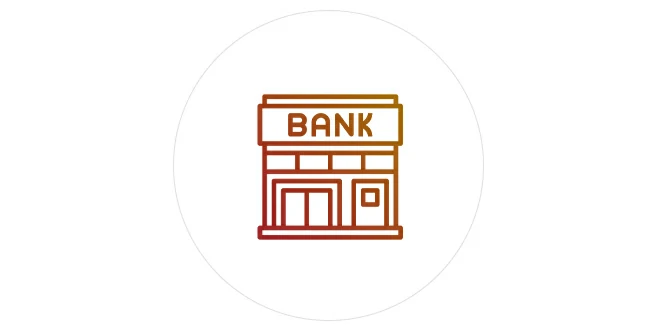
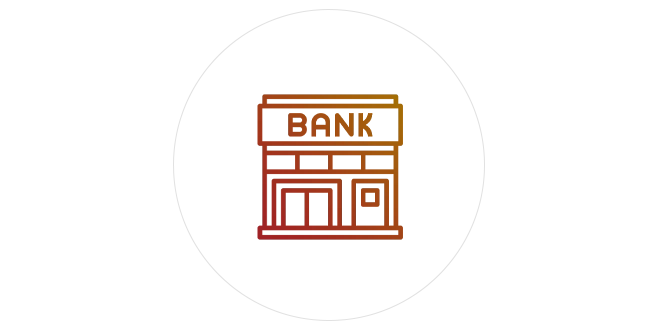
mk

diff --git a/css/about-aya/fdi.css b/css/about-aya/fdi.css
@@ -36,7 +36,7 @@
 	background-color: #A5000B !important;
 	color: #fff !important;
 	float: right;
-	border: 1px solid #A5000B;
+	border: 1px solid #A5000B !important;
 }
 .enquiry_btn:hover {
 	background-color: #fff !important;

diff --git a/css/header.css b/css/header.css
@@ -316,7 +316,7 @@
 }
 
 .alert-dropdown {
-	top: 40% !important;
+	top: 34% !important;
 }
 .alert-769-1179-dropdown {
 	top: 43% !important;

diff --git a/resources/views/layouts/alert-message.blade.php b/resources/views/layouts/alert-message.blade.php
@@ -1,20 +1,19 @@
-<div class="alert_div py-3" style="background-color: #434343;min-height: 160px;">
+<div class="alert_div py-3" style="background-color: #434343;">
 	<div class="container-fluid">
 		<div class="row">
 			<div class="col-md-11 alert_txt_div">
 				<p class="f-white fw-light alert-msg mb-0">Received a text requesting your account PIN (or) OTP?</p>
 				<p class="f-white fw-light alert-msg">Scammers may impersonate AYA Bank to target you via text message or social media or e-mail. We will never contact you to ask for your <b>account number, name, address, PIN or OTP</b>. If in doubt, don't respond - call us <a class="f-white text-decoration-underline" href="tel:+9512317777">(+95) 1 231 7777</a> (or)  e-mail us <a class="f-white text-decoration-underline" href="mailto:info@ayabank.com">info@ayabank.com</a>.</p>
-				<!-- <div class="alert_eng" >
-					<p class="f-white fw-light alert-msg mb-10">Lately, there has been a concerning trend of malicious apps infiltrating users' mobile phones through advertisements on popular Social Networks such as Facebook. These ads often promote seemingly legitimate services, but they contain hidden malware.</p>
-					<p class="f-white fw-light alert-msg mb-10">If you happen to download and use these deceptive apps, external parties gain control over your phone, enabling them to steal sensitive information like your mobile pay password and OTP (One-Time Password). With this access, they can transfer your money without your knowledge and even borrow money from your social network connections.</p>
-					<p class="f-white fw-light alert-msg mb-0">For your safety and security, it is crucial to avoid installing unreliable apps and exercise caution while using your mobile phone. Stay vigilant and protect your data from potential threats.</p>
-				</div>
+			 <!--   <div class="alert_eng">-->
+				<!--	<p class="f-white fw-light alert-msg mb-10">Lately, there has been a concerning trend of malicious apps infiltrating users' mobile phones through advertisements on popular Social Networks such as Facebook. These ads often promote seemingly legitimate services, but they contain hidden malware.</p>-->
+				<!--	<p class="f-white fw-light alert-msg mb-10">If you happen to download and use these deceptive apps, external parties gain control over your phone, enabling them to steal sensitive information like your mobile pay password and OTP (One-Time Password). With this access, they can transfer your money without your knowledge and even borrow money from your social network connections.</p>-->
+				<!--	<p class="f-white fw-light alert-msg mb-0">For your safety and security, it is crucial to avoid installing unreliable apps and exercise caution while using your mobile phone. Stay vigilant and protect your data from potential threats.</p>-->
+				<!--</div>-->
 
-				<div class="alert_mm" style="display: none;">
-					<p class="f-white fw-light alert-msg mb-0">&nbsp;</p>
-					<p class="f-white fw-light alert-msg mb-10" style="padding-right: 20px;">လတ်တလောတွင် Facebook ကဲ့သို့ Social Network များ၏ ကြော်ငြာ မှတဆင့် မိမိ၏ဖုန်းထဲကို apps သွင်းခိုင်းပြီး malware တွေပါထည့်နေခြင်းကို ကြားသိရပါသည်။ ထို apps ဝင်ရောက်ပါက မိမိ၏ ဖုန်းအားဝင်ရောက်ထိန်းချုပ်ပြီး မိမိ၏ ဘဏ်အကောင့် မိုဘိုင်းပေး password နှင့် OTP များအားခိုးယူပြီး မိမိမသိပဲငွေလွှဲ ယူဆောင်နိုင်ပါသည်။ ထို့အပြင်မိမိ၏ social account မှလည်း မိမိ၏မိတ်ဆွေများထံသို့ ငွေချေးမှုများပြုလုပ်နိုင်ပါသည်။</p>
-					<p class="f-white fw-light alert-msg mb-10">သို့ပါသဖြင့် မိမိ၏ ဖုန်းအား မိမိမသိသော၊ စိတ်မချရသော apps များအား ထည့်သွင်းခြင်းမပြုရန် သတိပြုလုပ်ဆောင်ကြပါရန် အကြောင်းကြားအပ်ပါသည်။</p>
-				</div> -->
+				<!--<div class="alert_mm" style="display: none;">-->
+				<!--	<p class="f-white fw-light alert-msg mb-10" style="padding-right: 20px;">လတ်တလောတွင် Facebook ကဲ့သို့ Social Network များ၏ ကြော်ငြာ မှတဆင့် မိမိ၏ဖုန်းထဲကို apps သွင်းခိုင်းပြီး malware တွေပါထည့်နေခြင်းကို ကြားသိရပါသည်။ ထို apps ဝင်ရောက်ပါက မိမိ၏ ဖုန်းအားဝင်ရောက်ထိန်းချုပ်ပြီး မိမိ၏ ဘဏ်အကောင့် မိုဘိုင်းပေး password နှင့် OTP များအားခိုးယူပြီး မိမိမသိပဲငွေလွှဲ ယူဆောင်နိုင်ပါသည်။ ထို့အပြင်မိမိ၏ social account မှလည်း မိမိ၏မိတ်ဆွေများထံသို့ ငွေချေးမှုများပြုလုပ်နိုင်ပါသည်။</p>-->
+				<!--	<p class="f-white fw-light alert-msg mb-10">သို့ပါသဖြင့် မိမိ၏ ဖုန်းအား မိမိမသိသော၊ စိတ်မချရသော apps များအား ထည့်သွင်းခြင်းမပြုရန် သတိပြုလုပ်ဆောင်ကြပါရန် အကြောင်းကြားအပ်ပါသည်။</p>-->
+				<!--</div>-->
 			</div>
 			<div class="col-md-1 alert_icon_div" style="display: table;">
 				<!--<i class="f-white bx bx-window-close close_icon"></i>-->
@@ -23,8 +22,3 @@
 		</div>
 	</div>
 </div>
-
-
-
-
-

diff --git a/resources/views/about-aya/foreign-direct-investment/index.blade.php b/resources/views/about-aya/foreign-direct-investment/index.blade.php
@@ -37,11 +37,10 @@
 					</a>
 					<a class="fdi_services_link" href="{{ url('/personal-banking/royal-banking') }}">
 						<div class="fdi_services_col col-md-3 text-center">
-							<img src="{{ url('/images/about-aya/who-we-are/foreign-direct-investment/02_royal_banking.webp') }}" class="img-fluid fdi_services_img">
+							<img src="{{ url('/images/about-aya/who-we-are/foreign-direct-investment/02_royal_banking.png') }}" class="img-fluid fdi_services_img">
 							<p class="fdi_services_label">
 								<span class="fw-bold goal_step_number">02</span><span class="fw-semibold goal_step_title">Royal Banking</span>
 							</p>
-							</a>
 						</div>
 					</a>
 					<a class="fdi_services_link" href="{{ url('/business-banking/borrowing') }}">
